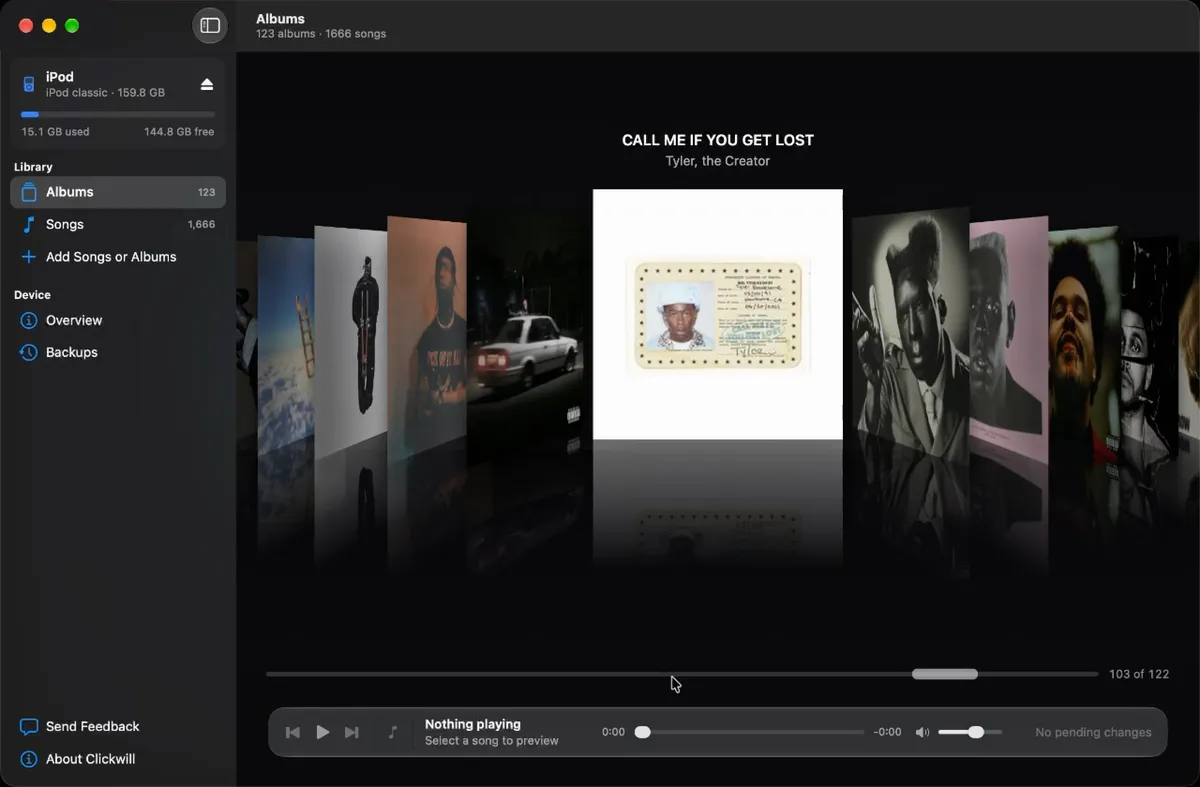
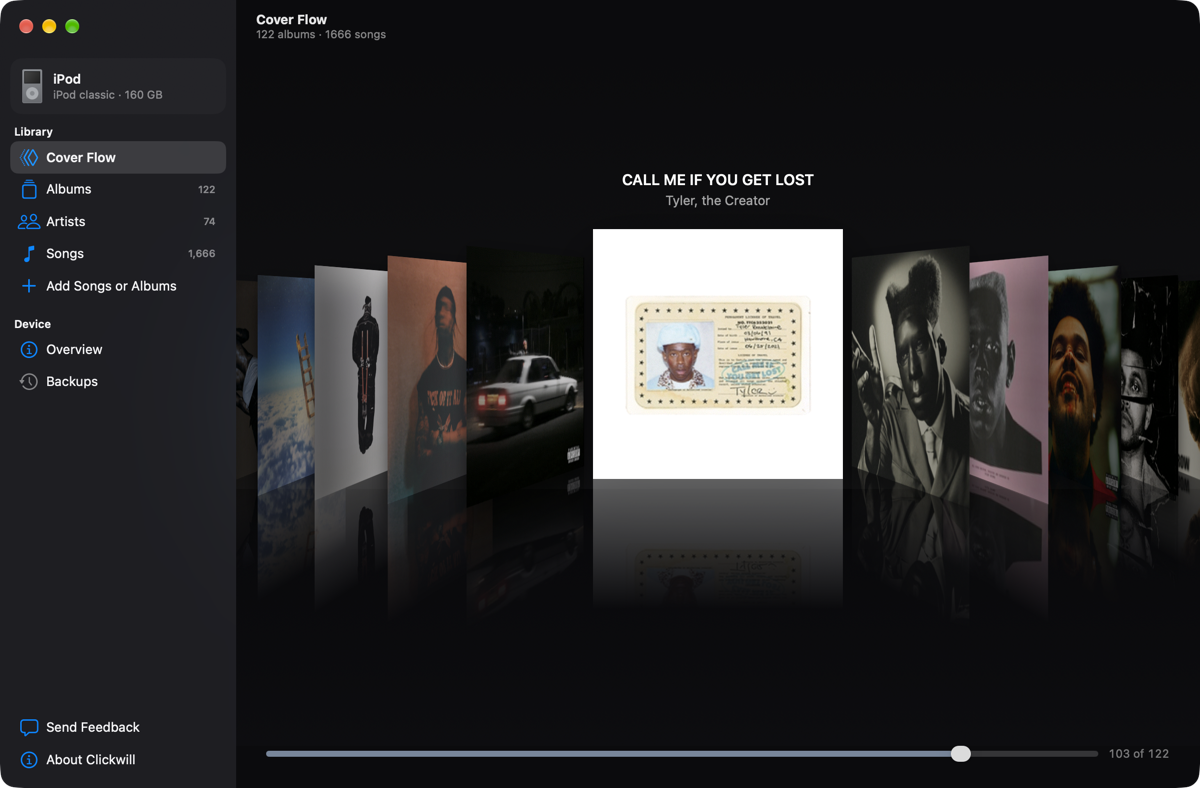
Show the current app in the README

diff --git a/README.md b/README.md
@@ -10,10 +10,10 @@ what you see is what is on the iPod.
 
 ![Clickwill showing an iPod classic library in Cover Flow](docs/clickwill.png)
 
-With Clickwill you can browse the library in Cover Flow, add songs and albums,
-change artwork, reorder tracks, fix album metadata, merge duplicates, convert
-files the iPod cannot play, rip audio CDs, and restore earlier states of the
-library from backups.
+With Clickwill you can browse the library in Cover Flow or by artist, add songs
+and albums in the format you choose, change artwork, reorder tracks, fix album
+metadata, merge duplicates, convert files the iPod cannot play, rip audio CDs,
+and restore earlier states of the library from backups.
 
 **[Download the free beta](https://clickwilldev.com/#download)** &middot;
 [clickwilldev.com](https://clickwilldev.com)
